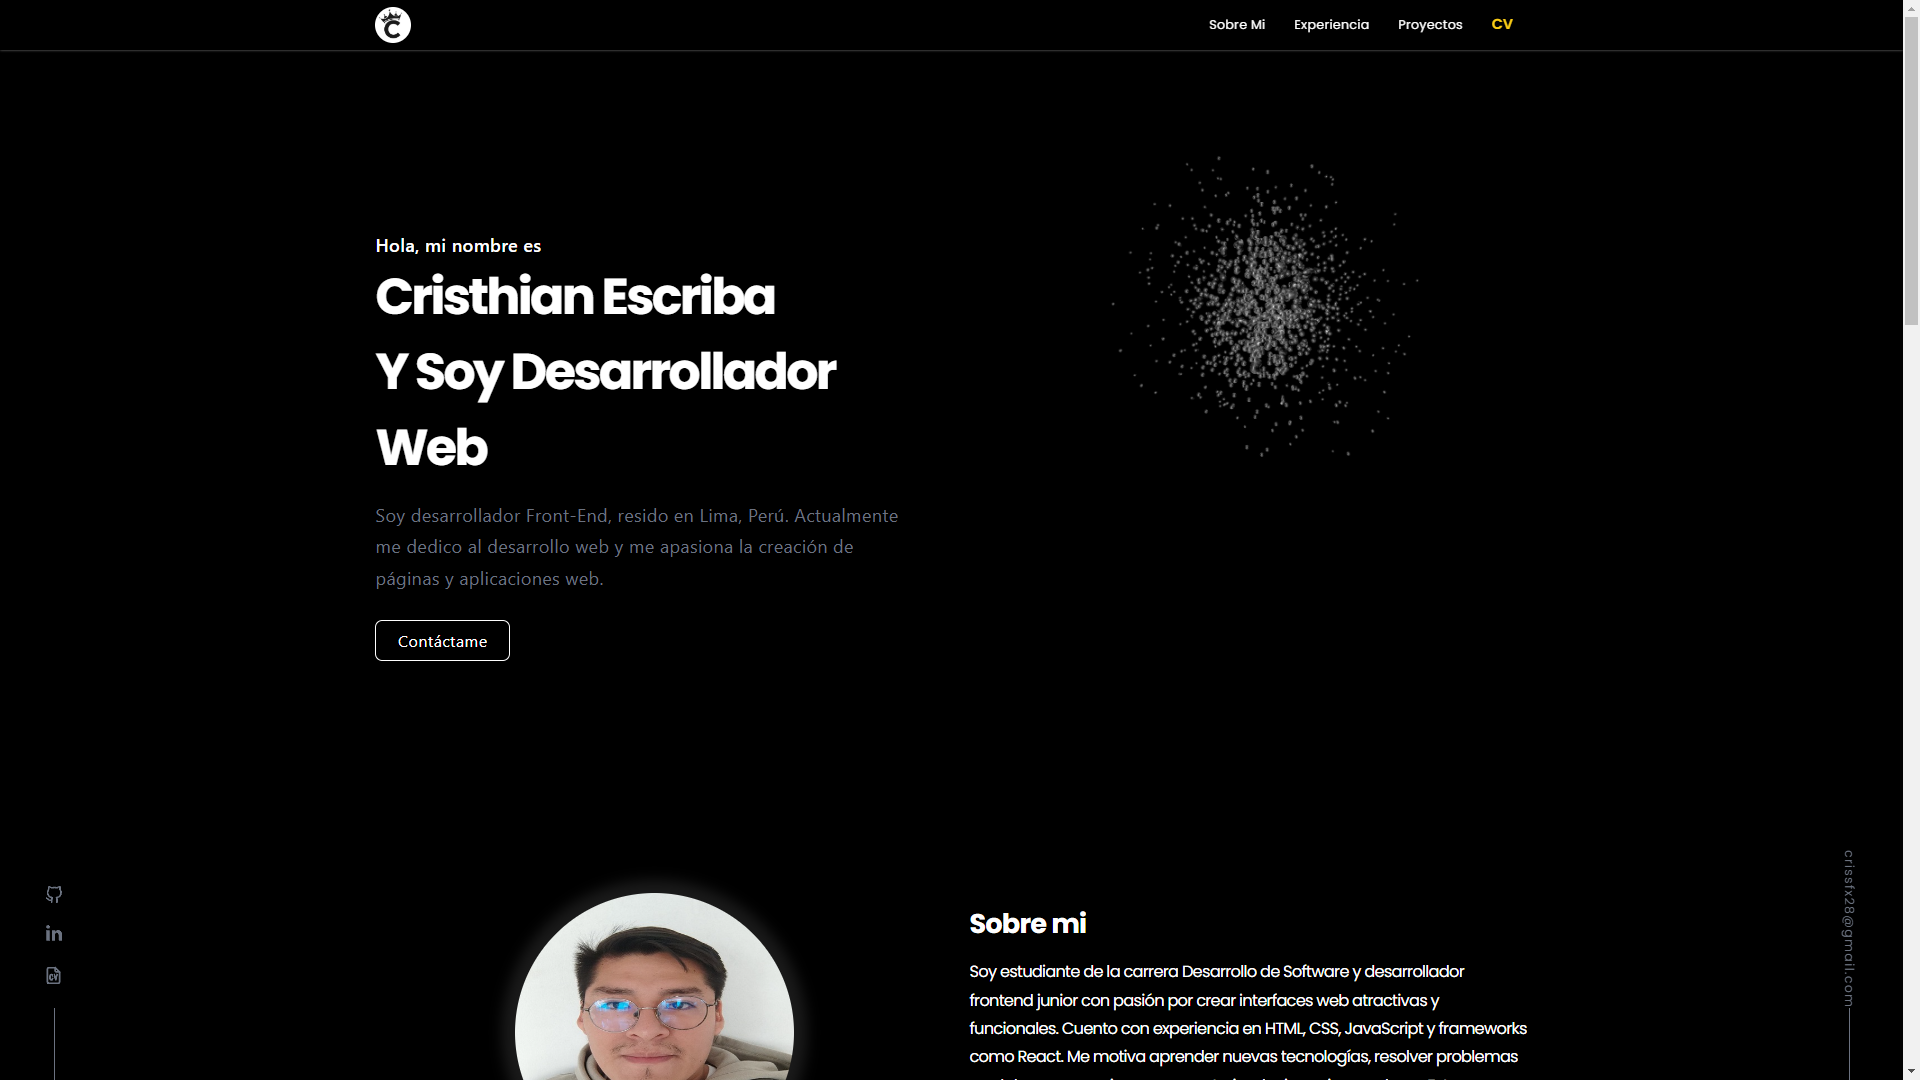
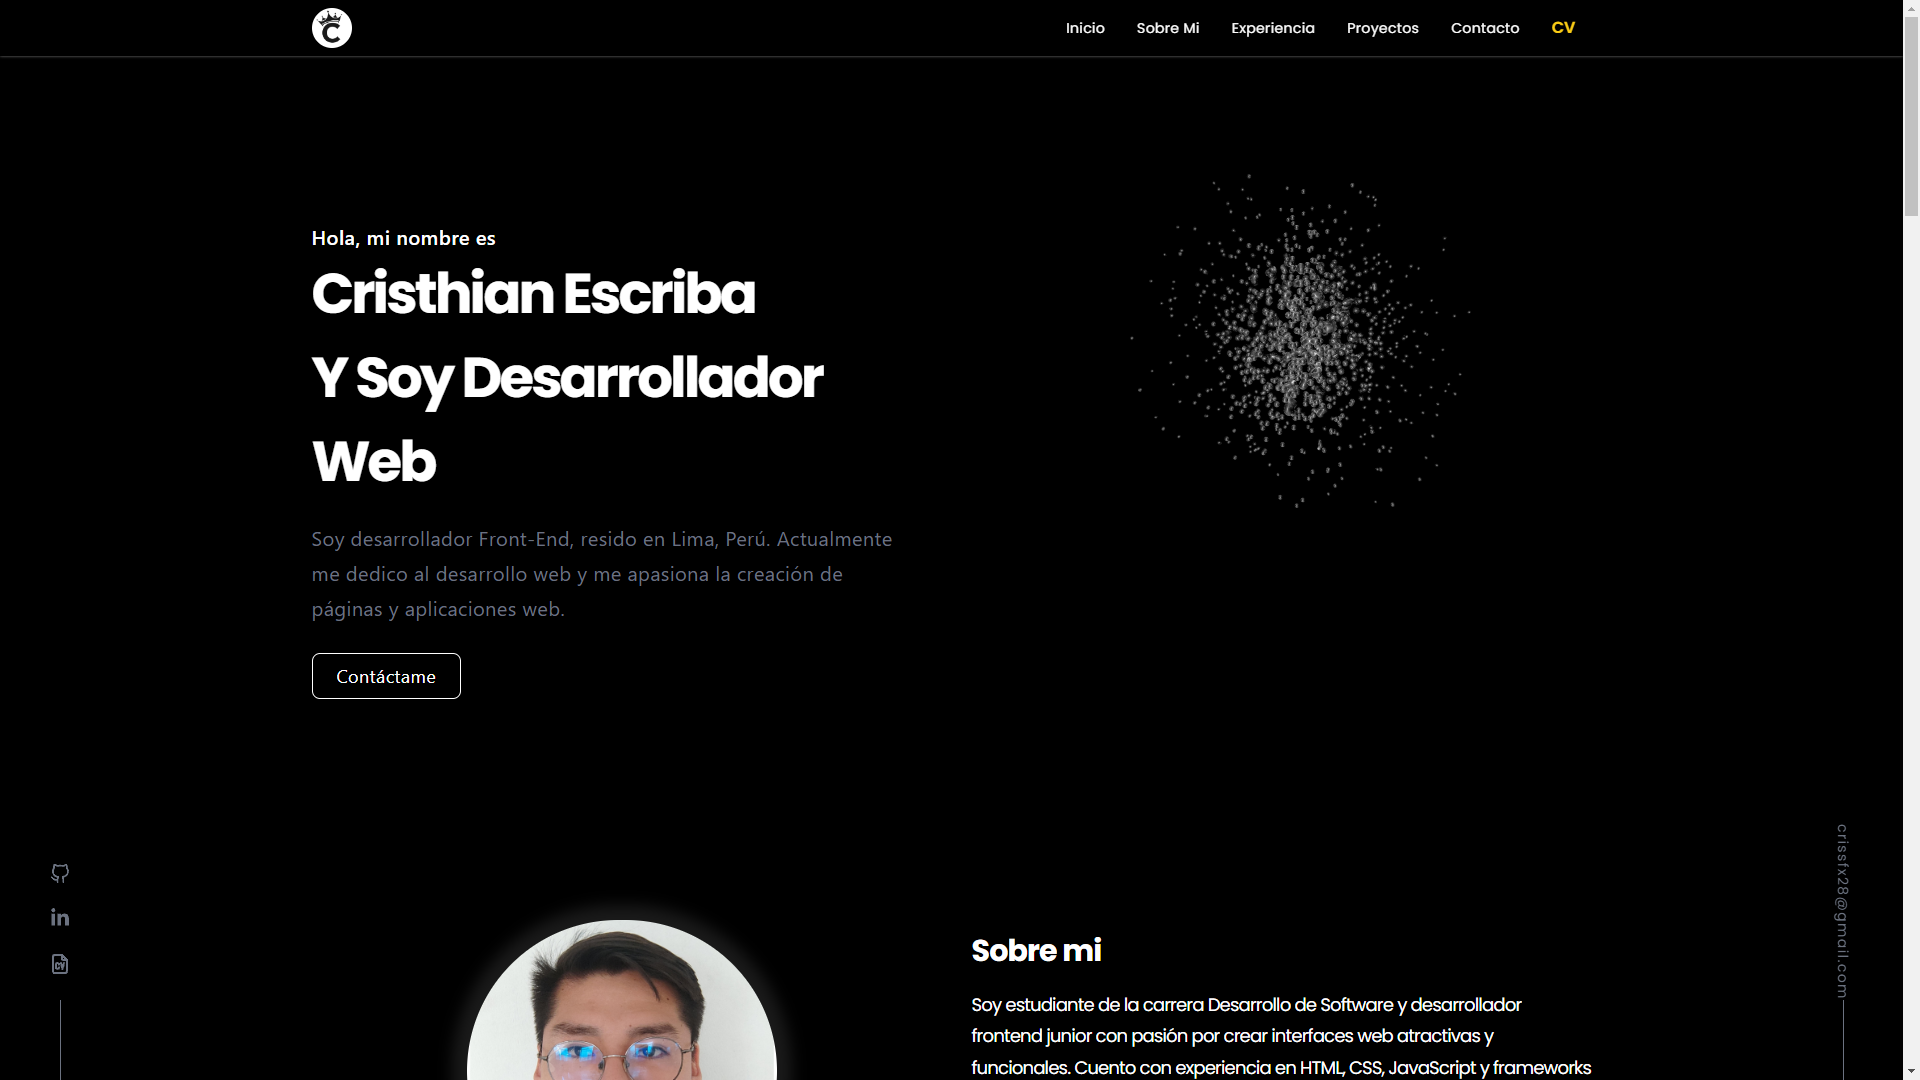
My Portfolio

diff --git a/src/components/Navbar/Navbar.jsx b/src/components/Navbar/Navbar.jsx
@@ -1,14 +1,18 @@
 // import React from "react";
+import { useState } from "react";
 import logo from "../../assets/logo C.jpg";
+import { RiCloseFill, RiMenu3Fill } from "react-icons/ri";
 
 const NavLinks = [
-  { id: 1, name: "Sobre Mi", link: "#sobre-mi" },
-  { id: 2, name: "Experiencia", link: "#experiencia" },
-  { id: 3, name: "Proyectos", link: "#proyectos" },
-  // { id: 4, name: "Contacto", link: "#contacto" },
+  { id: 1, name: "Inicio", link: "/" },
+  { id: 2, name: "Sobre Mi", link: "#sobre-mi" },
+  { id: 3, name: "Experiencia", link: "#experiencia" },
+  { id: 4, name: "Proyectos", link: "#proyectos" },
+  { id: 5, name: "Contacto", link: "#contacto" },
 ];
 
 export default function Navbar() {
+  const [open, setOpen] = useState(false);
   return (
     <nav className="fixed top-0 left-0 w-full z-50 bg-black shadow-[0_0_3px_rgba(255,255,255,0.5)]">
       <div className="container py-2 flex justify-between items-center">
@@ -36,6 +40,40 @@ export default function Navbar() {
           >
             CV
           </a>
+        </div>
+        <div className="flex md:hidden">
+          <button onClick={() => setOpen(!open)}>
+            {open ? (
+              <RiCloseFill style={{ fontSize: 30 }} />
+            ) : (
+              <RiMenu3Fill style={{ fontSize: 28 }} />
+            )}
+          </button>
+          {open && (
+            <div className="absolute z-[9999] bg-black text-white top-14 right-0 flex flex-col items-center w-3/4 h-[calc(100vh)] gap-8 text-xl pt-12 px-8">
+              {NavLinks.map((link) => {
+                return (
+                  <a
+                    key={link.id}
+                    href={link.link}
+                    className="mx-4 text-sm  tracking-wide hover:text-gray-400 transition-all duration-200"
+                    onClick={() => setOpen(!open)}
+                  >
+                    {link.name}
+                  </a>
+                );
+              })}
+              {/* button section */}
+              <a
+                href="/CV.pdf"
+                className="mx-4 text-sm font-semibold text-yellow-400"
+                target="_blank"
+                rel="noreferrer"
+              >
+                CV
+              </a>
+            </div>
+          )}
         </div>
       </div>
     </nav>

diff --git a/src/components/Contact/Contact.jsx b/src/components/Contact/Contact.jsx
@@ -1,0 +1,59 @@
+// import React from "react";
+
+import { FaLinkedinIn } from "react-icons/fa";
+import { FiGithub, FiInstagram } from "react-icons/fi";
+import { MdOutlineEmail } from "react-icons/md";
+
+export default function Contact() {
+  return (
+    <div className="container">
+      <div className="flex justify-center h-[90vh]">
+        <div className="flex flex-col items-center justify-center">
+          <p className="text-lg font-bold text-yellow-500">¿Que sigue?</p>
+          <h1 className="text-4xl font-semibold mb-4">CONTÁCTAME</h1>
+          <p className="mb-12">No dudes en contactarme!</p>
+          <button className="px-6 py-2 rounded-lg border-white border text-white font-mono text-lg">
+            <a
+              href="mailto:crissfx28@gmail.com"
+              target="_blank"
+              rel="noreferrer"
+            >
+              Saludame
+            </a>
+          </button>
+        </div>
+      </div>
+      <div className="flex items-center justify-center gap-10 mb-6 text-2xl">
+        <a
+          href="https://github.com/Cristhian988"
+          target="_blank"
+          rel="noreferrer"
+        >
+          <FiGithub />
+        </a>
+        <a
+          href="https://www.instagram.com/criss.98_/"
+          target="_blank"
+          rel="noreferrer"
+        >
+          <FiInstagram />
+        </a>
+        <a
+          href="https://www.linkedin.com/in/cristhian-escriba-arango-70440615b?utm_source=share&utm_campaign=share_via&utm_content=profile&utm_medium=android_app"
+          target="_blank"
+          rel="noreferrer"
+        >
+          <FaLinkedinIn />
+        </a>
+        <a href="mailto:crissfx28@gmail.com" target="_blank" rel="noreferrer">
+          <MdOutlineEmail />
+        </a>
+      </div>
+      <div>
+        <p className="text-gray-500 mb-4 text-center">
+          2024Cristhian Escriba - Ten 365 días bonitos
+        </p>
+      </div>
+    </div>
+  );
+}

diff --git a/src/components/About/About.jsx b/src/components/About/About.jsx
@@ -1,5 +1,5 @@
 // import React from "react";
-import profile from "../../assets/Profile.jpg";
+import profile from "../../assets/profile.jpg";
 
 export default function About() {
   return (
@@ -18,11 +18,10 @@ export default function About() {
           <div className="space-y-5 flex justify-center flex-col tracking-tighter">
             <h2 className="text-3xl font-bold">Sobre mi</h2>
             <p className="text-clamp-sm leading-[1.75]">
-              Soy estudiante de la carrera Desarrollo de Software y
-              desarrollador frontend junior con pasión por crear interfaces web
-              atractivas y funcionales. Cuento con experiencia en HTML, CSS,
-              JavaScript y frameworks como React. Me motiva aprender nuevas
-              tecnologías, resolver problemas y colaborar en equipo para
+              Soy estudiante de Desarrollo de Software con pasión por crear
+              interfaces web atractivas y funcionales. Cuento con experiencia en
+              HTML, CSS, JavaScript y frameworks como React. Me motiva aprender
+              nuevas tecnologías, resolver problemas y colaborar en equipo para
               construir soluciones innovadoras. Estoy comprometido con mi
               crecimiento profesional y listo para contribuir a proyectos
               desafiantes mientras sigo desarrollando mis habilidades.

diff --git a/src/components/Hero/Hero.jsx b/src/components/Hero/Hero.jsx
@@ -49,7 +49,7 @@ export default function Hero() {
         </div>
       </div>
       {/* static icons */}
-      <div className="hidden lg:block w-10 fixed bottom-0 left-10 z-10 ">
+      <div className="hidden lg:block w-10 fixed bottom-0 lg:left-2 xl:left-10 z-10 ">
         <ul className="flex flex-col items-center justify-center gap-6 text-gray-500 text-xl">
           <li>
             <a
@@ -84,7 +84,7 @@ export default function Hero() {
           <div className="relative w-[1px] h-20 bg-gray-500 group-hover:bg-gray-500 group-hover:text-gray-500" />
         </ul>
       </div>
-      <div className="hidden lg:block w-10 fixed bottom-0 left-auto right-10 z-10 ">
+      <div className="hidden lg:block w-10 fixed bottom-0 left-auto right-2 xl:right-10 z-10 ">
         <div className="flex flex-col items-center relative">
           <a
             href="mailto:crissfx28@gmail.com"

diff --git a/src/App.jsx b/src/App.jsx
@@ -1,5 +1,6 @@
 import "./App.css";
 import About from "./components/About/About";
+import Contact from "./components/Contact/Contact";
 import Experience from "./components/Experience/Experience";
 import Hero from "./components/Hero/Hero";
 import Navbar from "./components/Navbar/Navbar";
@@ -25,6 +26,9 @@ function App() {
         </section>
         <section id="proyectos">
           <Projects />
+        </section>
+        <section id="contacto">
+          <Contact />
         </section>
       </main>
     </>
